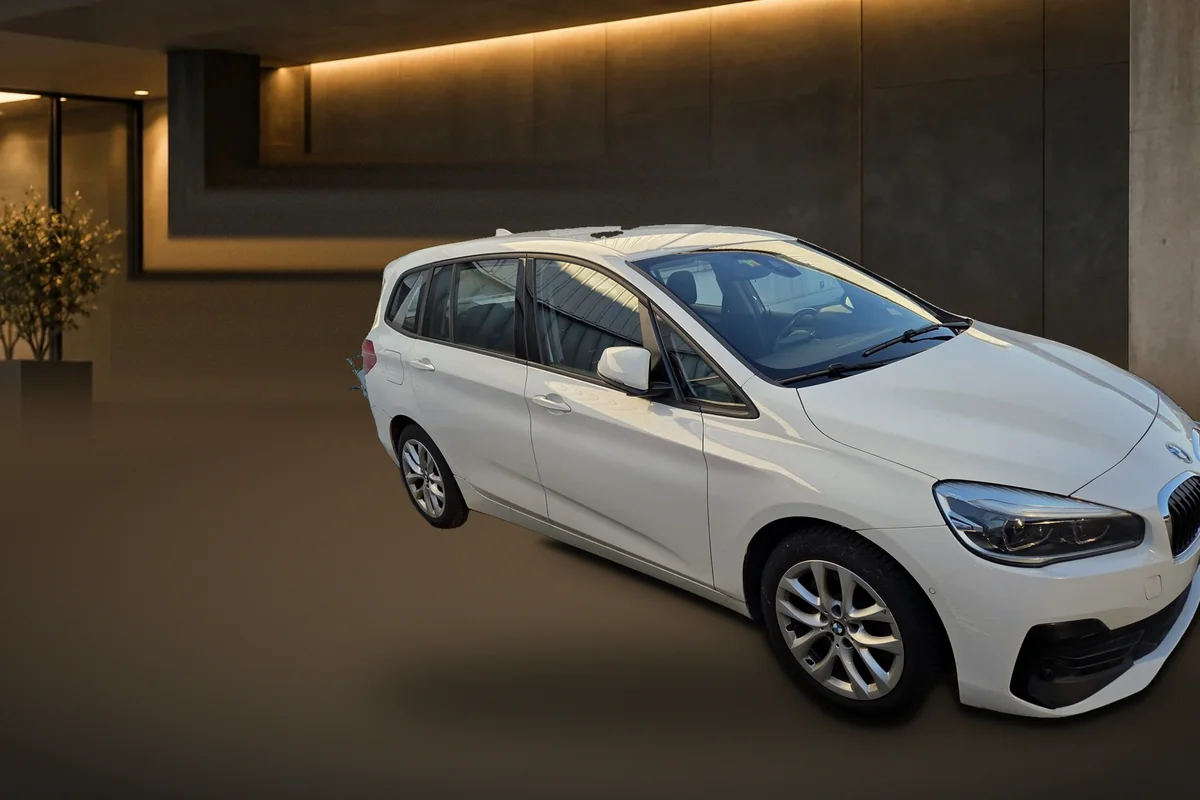
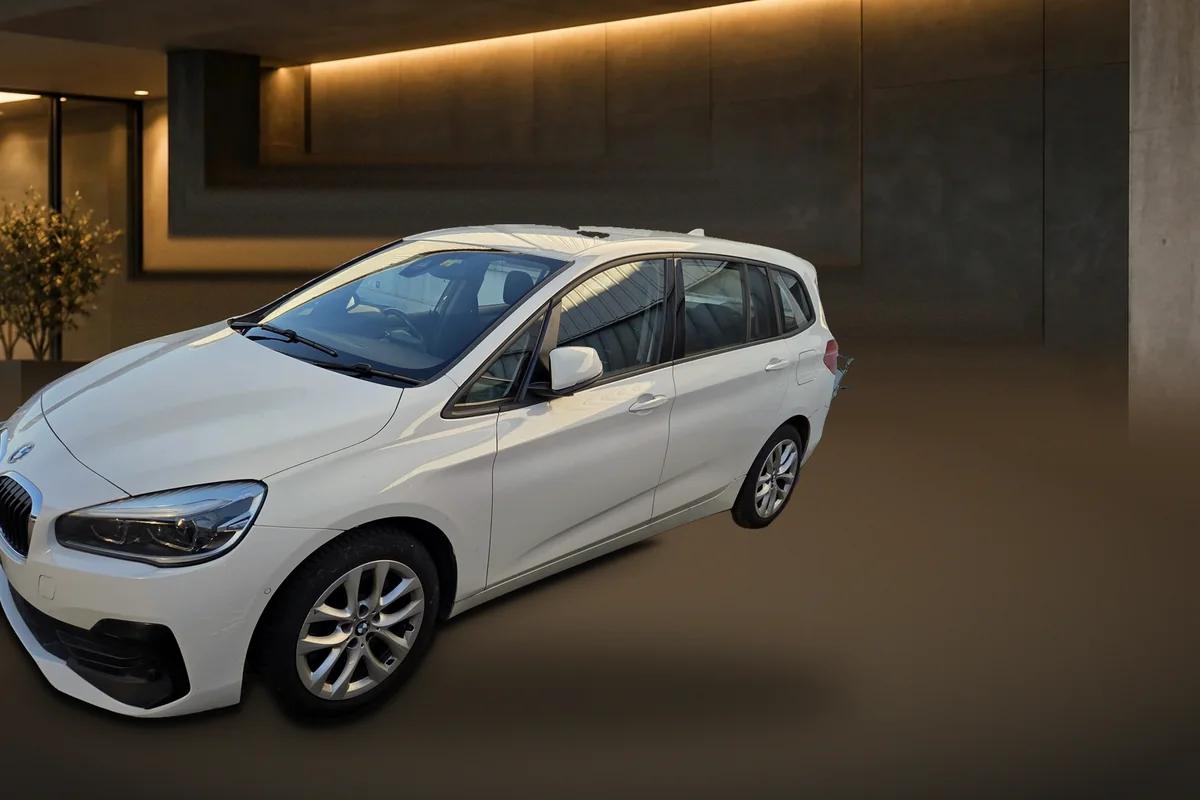
BMW gespiegelt (gleiche Richtung wie die Mercedes), MFK-Hinweis aus dem Foto in die Karte verschoben

diff --git a/index.html b/index.html
@@ -20,7 +20,7 @@
 #legal-dialog{padding:0;width:min(780px,calc(100% - 32px));max-height:min(86svh,880px);overflow:hidden;background:#1d201a;border:1px solid #ffffff28;box-shadow:0 30px 100px #0008;color:var(--ink)}#legal-dialog::backdrop{background:#080a07c9;backdrop-filter:blur(5px)}.legal-frame{display:flex;flex-direction:column;max-height:min(86svh,880px)}.legal-header{display:flex;align-items:center;justify-content:space-between;gap:20px;padding:25px 30px;border-bottom:1px solid var(--line);flex-shrink:0}.legal-header .eyebrow{font-size:8px;letter-spacing:2px;color:var(--orange)}#legal-title{font-family:'Barlow Condensed',Impact,sans-serif;font-size:38px;text-transform:uppercase;font-weight:600;margin:7px 0 0;line-height:1}.legal-close{width:42px;height:42px;border:1px solid var(--line);color:var(--ink);background:transparent;font-size:24px;flex-shrink:0}.legal-close:hover{border-color:var(--orange);color:var(--orange)}.legal-body{overflow:auto;overscroll-behavior:contain;padding:25px 30px 32px}.legal-body h3{font-family:Manrope,Arial,sans-serif;font-size:14px;line-height:1.5;margin:26px 0 10px;color:var(--ink)}.legal-body section:first-of-type h3{margin-top:0}.legal-body p,.legal-body li{font-size:12px;line-height:1.9;color:#b1b6a8;margin:0 0 12px}.legal-body ul{padding-left:19px}.legal-body a{color:#ffa781;text-decoration:underline;text-underline-offset:3px;overflow-wrap:anywhere}.legal-meta{color:#7e8774!important;font-size:9px!important;letter-spacing:.8px;text-transform:uppercase;border-bottom:1px solid var(--line);padding-bottom:18px;margin-bottom:22px!important}.legal-pending{padding:14px 16px;border-left:2px solid var(--orange);background:#ff6b350c;font-size:11px!important;margin-bottom:25px!important}.legal-details{display:grid;grid-template-columns:140px 1fr;gap:12px 22px;margin:16px 0}.legal-details dt{color:#7e8774;font-size:11px}.legal-details dd{margin:0;color:#d4d8cd;font-size:12px;line-height:1.7}.legal-missing{color:#e2b89b}.legal-footer{padding:14px 30px;border-top:1px solid var(--line);font-size:9px;color:#7e8774;flex-shrink:0}.service h3{max-width:100%}@media(max-width:700px){#legal-dialog{width:calc(100% - 24px);max-height:90svh}.legal-frame{max-height:90svh}.legal-header{padding:20px}.legal-body{padding:22px 20px 28px}.legal-footer{padding:14px 20px}.legal-details{grid-template-columns:1fr;gap:5px}.legal-details dd{margin-bottom:12px}#legal-title{font-size:34px}.service h3{font-size:13px}}
 .logo .logo-mark{height:70px;width:auto;flex-shrink:0;display:block}.footer-inner .logo .logo-mark{height:56px}.contact-actions{display:flex;flex-wrap:wrap;gap:12px}.contact-details a{color:var(--ink)}.contact-details a:hover{color:var(--orange)}#form-result .btn{display:flex;width:100%;box-sizing:border-box;margin-top:12px}
 @media(max-width:700px){.logo .logo-mark{height:56px}.footer-inner .logo .logo-mark{height:48px}}
-.car-image .car-tag{display:flex;align-items:center;gap:7px;top:auto;bottom:14px}.car-tag b{color:var(--orange);font-size:11px}.car-price{position:absolute;right:14px;top:14px;text-align:right;background:var(--orange);color:#171816;font-family:'Barlow Condensed',Impact,sans-serif;font-weight:700;font-size:34px;line-height:.95;letter-spacing:.3px;padding:9px 15px 10px;box-shadow:0 12px 32px #000a}.car-price small{display:block;font-family:Manrope,Arial,sans-serif;font-size:8px;font-weight:800;letter-spacing:2px;margin-bottom:4px;opacity:.8}.car-info .car-sub{font-size:9px;letter-spacing:1.8px;text-transform:uppercase;color:var(--orange);font-weight:700;margin:0 0 9px;line-height:1.4}.car-specs{display:grid;grid-template-columns:repeat(3,1fr);margin:0 0 18px;border-top:1px solid var(--line);border-bottom:1px solid var(--line)}.car-specs div{padding:12px 10px 11px 0}.car-specs div+div{padding-left:12px;border-left:1px solid var(--line)}.car-specs dt{font-size:8px;letter-spacing:1.5px;text-transform:uppercase;color:#858c7b;margin-bottom:5px}.car-specs dd{margin:0;font-size:13px;font-weight:700;white-space:nowrap}
+.car-mfk{font-size:10px;font-weight:800;letter-spacing:1.2px;text-transform:uppercase;color:var(--ink)}.car-mfk b{color:var(--orange);margin-right:5px}.car-price{position:absolute;right:14px;top:14px;text-align:right;background:var(--orange);color:#171816;font-family:'Barlow Condensed',Impact,sans-serif;font-weight:700;font-size:34px;line-height:.95;letter-spacing:.3px;padding:9px 15px 10px;box-shadow:0 12px 32px #000a}.car-price small{display:block;font-family:Manrope,Arial,sans-serif;font-size:8px;font-weight:800;letter-spacing:2px;margin-bottom:4px;opacity:.8}.car-info .car-sub{font-size:9px;letter-spacing:1.8px;text-transform:uppercase;color:var(--orange);font-weight:700;margin:0 0 9px;line-height:1.4}.car-specs{display:grid;grid-template-columns:repeat(3,1fr);margin:0 0 18px;border-top:1px solid var(--line);border-bottom:1px solid var(--line)}.car-specs div{padding:12px 10px 11px 0}.car-specs div+div{padding-left:12px;border-left:1px solid var(--line)}.car-specs dt{font-size:8px;letter-spacing:1.5px;text-transform:uppercase;color:#858c7b;margin-bottom:5px}.car-specs dd{margin:0;font-size:13px;font-weight:700;white-space:nowrap}
 @media(max-width:1000px){.car-price{font-size:28px;padding:8px 12px 9px}.car-specs dd{font-size:12px}.car-specs div+div{padding-left:9px}}
 @media(max-width:700px){.car-price{font-size:32px}.car-specs dd{font-size:13px}}
 </style>
@@ -30,7 +30,7 @@
 <main>
 <section class="hero"><img class="hero-photo" src="assets/hero.webp" alt="Graphitgraues Fahrzeug in einer modern ausgestatteten Werkstatt — illustrative Aufnahme" fetchpriority="high"><div class="shell hero-content"><div class="eyebrow"><i class="dot"></i> AUTOHANDEL & SERVICE · SCHAFFHAUSEN</div><h1>Ihr nächstes Auto.<br><span>In guten Händen.</span></h1><p class="hero-copy">Ein neues Kapitel auf vier Rädern.<br>Gebrauchtwagen, Wartung und Reparatur.<br>Persönlich für Sie da — in Schaffhausen.</p><div class="actions"><a class="btn" href="#fahrzeuge">Fahrzeuge entdecken <span class="arrow">↗</span></a><a class="btn light" href="#leistungen">Werkstatt & Service <span class="arrow">↓</span></a></div></div><div class="hero-foot"><div class="shell"><div class="hero-notes"><span>Gebrauchtwagen</span><span>Werkstatt & Service</span><span>Schaffhausen, Schweiz</span></div><a href="#leistungen" class="scroll-note">ENTDECKEN <span class="arrow">↓</span></a></div></div></section>
 <div class="brands"><div class="shell"><span class="brand-label">AUTOHANDEL.<br>ALLE MARKEN.</span><span class="brand-name">BMW</span><span class="brand-name italic">Mercedes-Benz</span><span class="brand-name">AUDI</span><span class="brand-name">VOLKSWAGEN</span><span class="brand-name italic">Ford</span><span class="brand-name">OPEL</span></div></div>
-<section id="fahrzeuge" class="section cars"><div class="shell"><div class="section-head"><div><div class="eyebrow"><i class="dot"></i> 01 / AUTOHANDEL</div><h2>Neuer Schlüssel.<br>Neue Möglichkeiten.</h2></div><p class="section-summary">Geprüfte Gebrauchtwagen, frisch ab MFK<br>und Service. Besichtigung und Probefahrt<br>in Gächlingen nach Absprache.</p></div><div class="car-grid"><article class="car-card"><div class="car-image"><img src="assets/fahrzeug-b200.webp" alt="Mercedes-Benz B 200 in Bronze, Jahrgang 2013" width="1200" height="800" loading="lazy"><span class="car-tag"><b>✓</b> Frisch ab MFK & Service</span><div class="car-price"><small>PREIS</small>CHF 8'500.–</div></div><div class="car-info"><p class="car-sub">Automat · Kompaktvan</p><h3>Mercedes-Benz B 200</h3><dl class="car-specs"><div><dt>Jahrgang</dt><dd>2013</dd></div><div><dt>Kilometer</dt><dd>158'000 km</dd></div><div><dt>Getriebe</dt><dd>Automat</dd></div></dl><p>Geräumig, übersichtlich und bequem: hohe Sitzposition, viel Platz und Automatikgetriebe für entspanntes Fahren im Alltag.</p><div class="car-action"><span class="car-placeholder">Besichtigung & Probefahrt in Gächlingen</span><button type="button" data-car="b200" aria-label="Anfrage für Mercedes-Benz B 200 vorbereiten">Anfragen <span class="arrow">↗</span></button></div></div></article><article class="car-card"><div class="car-image"><img src="assets/fahrzeug-b180.webp" alt="Mercedes-Benz B 180 in Silber, Jahrgang 2015" width="1200" height="800" loading="lazy"><span class="car-tag"><b>✓</b> Frisch ab MFK & Service</span><div class="car-price"><small>PREIS</small>CHF 10'000.–</div></div><div class="car-info"><p class="car-sub">Automat · Kompaktvan</p><h3>Mercedes-Benz B 180</h3><dl class="car-specs"><div><dt>Jahrgang</dt><dd>2015</dd></div><div><dt>Kilometer</dt><dd>179'000 km</dd></div><div><dt>Getriebe</dt><dd>Automat</dd></div></dl><p>Gepflegter Kompaktvan in Silber mit Automatik. Viel Raum für Familie, Einkauf und Ferien – bereit für die nächsten Kilometer.</p><div class="car-action"><span class="car-placeholder">Besichtigung & Probefahrt in Gächlingen</span><button type="button" data-car="b180" aria-label="Anfrage für Mercedes-Benz B 180 vorbereiten">Anfragen <span class="arrow">↗</span></button></div></div></article><article class="car-card"><div class="car-image"><img src="assets/fahrzeug-bmw218d.webp" alt="BMW 218d xDrive Gran Tourer in Weiss, Jahrgang 2019" width="1200" height="800" loading="lazy"><span class="car-tag"><b>✓</b> Frisch ab MFK & Service</span><div class="car-price"><small>PREIS</small>CHF 12'000.–</div></div><div class="car-info"><p class="car-sub">Gran Tourer · Diesel · Allrad</p><h3>BMW 218d xDrive</h3><dl class="car-specs"><div><dt>Jahrgang</dt><dd>2019</dd></div><div><dt>Kilometer</dt><dd>181'000 km</dd></div><div><dt>Antrieb</dt><dd>xDrive 4×4</dd></div></dl><p>Vielseitiger Van mit Allradantrieb und Dieselmotor. Sicher unterwegs bei jedem Wetter – mit viel Platz für die ganze Familie.</p><div class="car-action"><span class="car-placeholder">Besichtigung & Probefahrt in Gächlingen</span><button type="button" data-car="bmw218d" aria-label="Anfrage für BMW 218d xDrive vorbereiten">Anfragen <span class="arrow">↗</span></button></div></div></article></div><div class="cars-footer"><p>Alle Fahrzeuge frisch ab MFK und Service. Preise in CHF, Zwischenverkauf vorbehalten. Weitere Angebote und neue Fahrzeuge zeigen wir laufend auf Instagram.</p><a class="text-link" href="https://www.instagram.com/filimonov_cartrading/" target="_blank" rel="noopener noreferrer">Zum Instagram-Profil <span class="arrow">↗</span></a></div></div></section>
+<section id="fahrzeuge" class="section cars"><div class="shell"><div class="section-head"><div><div class="eyebrow"><i class="dot"></i> 01 / AUTOHANDEL</div><h2>Neuer Schlüssel.<br>Neue Möglichkeiten.</h2></div><p class="section-summary">Geprüfte Gebrauchtwagen, frisch ab MFK<br>und Service. Besichtigung und Probefahrt<br>in Gächlingen nach Absprache.</p></div><div class="car-grid"><article class="car-card"><div class="car-image"><img src="assets/fahrzeug-b200.webp" alt="Mercedes-Benz B 200 in Bronze, Jahrgang 2013" width="1200" height="800" loading="lazy"><div class="car-price"><small>PREIS</small>CHF 8'500.–</div></div><div class="car-info"><p class="car-sub">Automat · Kompaktvan</p><h3>Mercedes-Benz B 200</h3><dl class="car-specs"><div><dt>Jahrgang</dt><dd>2013</dd></div><div><dt>Kilometer</dt><dd>158'000 km</dd></div><div><dt>Getriebe</dt><dd>Automat</dd></div></dl><p>Geräumig, übersichtlich und bequem: hohe Sitzposition, viel Platz und Automatikgetriebe für entspanntes Fahren im Alltag.</p><div class="car-action"><span class="car-mfk"><b>✓</b> Frisch ab MFK & Service</span><button type="button" data-car="b200" aria-label="Anfrage für Mercedes-Benz B 200 vorbereiten">Anfragen <span class="arrow">↗</span></button></div></div></article><article class="car-card"><div class="car-image"><img src="assets/fahrzeug-b180.webp" alt="Mercedes-Benz B 180 in Silber, Jahrgang 2015" width="1200" height="800" loading="lazy"><div class="car-price"><small>PREIS</small>CHF 10'000.–</div></div><div class="car-info"><p class="car-sub">Automat · Kompaktvan</p><h3>Mercedes-Benz B 180</h3><dl class="car-specs"><div><dt>Jahrgang</dt><dd>2015</dd></div><div><dt>Kilometer</dt><dd>179'000 km</dd></div><div><dt>Getriebe</dt><dd>Automat</dd></div></dl><p>Gepflegter Kompaktvan in Silber mit Automatik. Viel Raum für Familie, Einkauf und Ferien – bereit für die nächsten Kilometer.</p><div class="car-action"><span class="car-mfk"><b>✓</b> Frisch ab MFK & Service</span><button type="button" data-car="b180" aria-label="Anfrage für Mercedes-Benz B 180 vorbereiten">Anfragen <span class="arrow">↗</span></button></div></div></article><article class="car-card"><div class="car-image"><img src="assets/fahrzeug-bmw218d.webp" alt="BMW 218d xDrive Gran Tourer in Weiss, Jahrgang 2019" width="1200" height="800" loading="lazy"><div class="car-price"><small>PREIS</small>CHF 12'000.–</div></div><div class="car-info"><p class="car-sub">Gran Tourer · Diesel · Allrad</p><h3>BMW 218d xDrive</h3><dl class="car-specs"><div><dt>Jahrgang</dt><dd>2019</dd></div><div><dt>Kilometer</dt><dd>181'000 km</dd></div><div><dt>Antrieb</dt><dd>xDrive 4×4</dd></div></dl><p>Vielseitiger Van mit Allradantrieb und Dieselmotor. Sicher unterwegs bei jedem Wetter – mit viel Platz für die ganze Familie.</p><div class="car-action"><span class="car-mfk"><b>✓</b> Frisch ab MFK & Service</span><button type="button" data-car="bmw218d" aria-label="Anfrage für BMW 218d xDrive vorbereiten">Anfragen <span class="arrow">↗</span></button></div></div></article></div><div class="cars-footer"><p>Alle Fahrzeuge frisch ab MFK und Service. Preise in CHF, Zwischenverkauf vorbehalten. Weitere Angebote und neue Fahrzeuge zeigen wir laufend auf Instagram.</p><a class="text-link" href="https://www.instagram.com/filimonov_cartrading/" target="_blank" rel="noopener noreferrer">Zum Instagram-Profil <span class="arrow">↗</span></a></div></div></section>
 <section id="leistungen" class="section services"><div class="shell"><div class="section-head"><div><div class="eyebrow"><i class="dot"></i> 02 / WERKSTATT & SERVICE</div><h2>Alles, was Ihr Auto braucht.</h2></div><p class="section-summary">Ein komisches Geräusch? Die nächste Inspektion?<br>Hier finden Sie den passenden Service.</p></div><div class="service-grid">
 <article class="service"><div class="service-top"><svg viewBox="0 0 32 32"><path d="m4 24 2-7h17l3 7v4H4v-4Zm4-7 3-6h8l3 6M8 24h3m8 0h3M5 28v2m20-2v2M25 2v8m-4-4h8M6 2v6M3 5h6"/></svg><span>01</span></div><h3>Fahrzeugpflege & Aufbereitung</h3><p>Innenreinigung · Polsterpflege<br>Lackpolitur · Verkaufsaufbereitung</p></article>
 <article class="service"><div class="service-top"><svg viewBox="0 0 32 32"><circle cx="16" cy="16" r="12"/><circle cx="16" cy="16" r="5"/><path d="m16 4 3 5m9 7-5 3m-7 9-3-5M4 16l5-3"/></svg><span>02</span></div><h3>Bremsen & Fahrwerk</h3><p>Bremsen · Stoßdämpfer · Federung<br>Lenkung · Achsvermessung</p></article>
